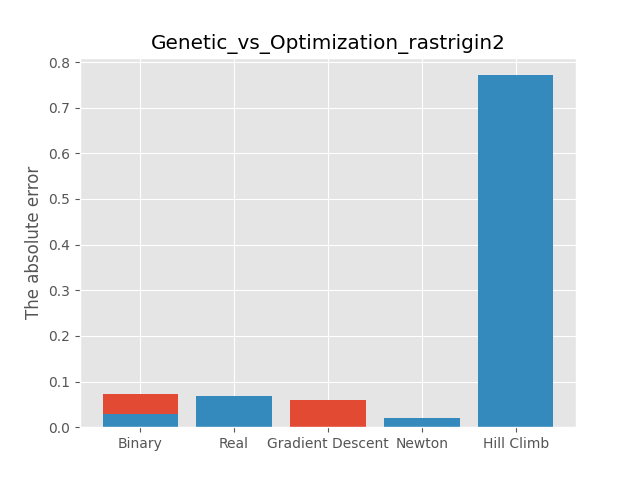
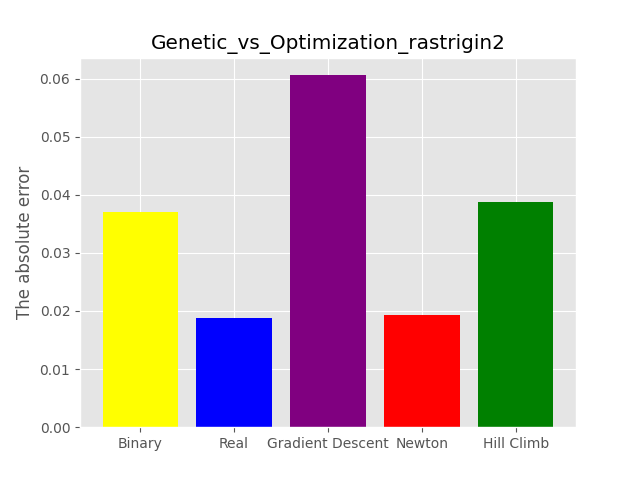
Nice colors

diff --git a/HW2/HW2.py b/HW2/HW2.py
@@ -796,7 +796,12 @@ def main(verbose=True, runs_genetic=20):
                       best_real[-1],
                       best_grad[-1],
                       best_newton[-1],
-                      best_hill[-1]])
+                      best_hill[-1]],
+                      color=['yellow',
+                              'blue', 
+                              'purple', 
+                              'red', 
+                              'green'])
             
             plt.savefig(os.path.join('figures', problem, title))
 
